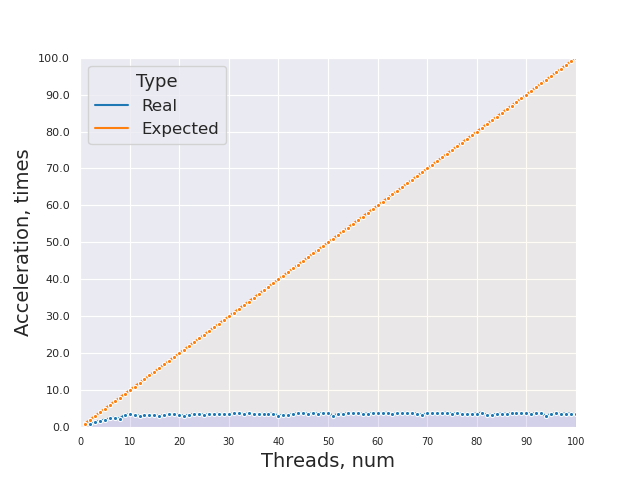
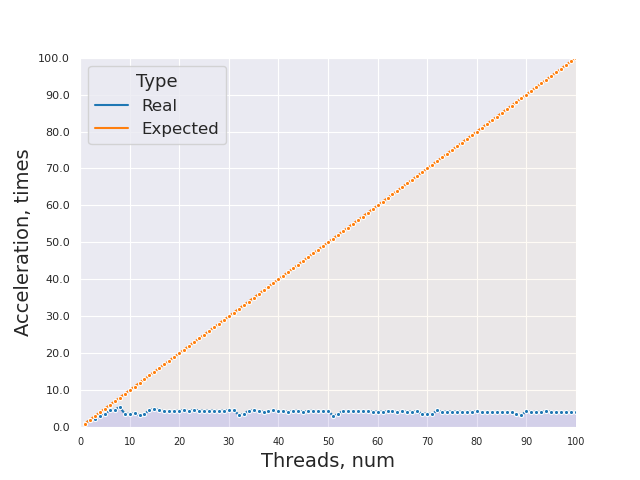
improved time measurements

Changed region(s): [[0.125, 0.8438, 0.9062, 0.9062]]

diff --git a/lab1/graphs/timing.py b/lab1/graphs/timing.py
@@ -1,6 +1,266 @@
 num_el = 10_000_000
 t_succ = 0.022116
+
 ts = [
+    (1, 0.0216019),
+    (2, 0.0113731),
+    (3, 0.00950468),
+    (4, 0.00737183),
+    (5, 0.00613744),
+    (6, 0.00484933),
+    (7, 0.00465093),
+    (8, 0.00405794),
+    (9, 0.00601082),
+    (10, 0.00615852),
+    (11, 0.00589929),
+    (12, 0.00678586),
+    (13, 0.00628134),
+    (14, 0.00471987),
+    (15, 0.00453389),
+    (16, 0.00472194),
+    (17, 0.00516676),
+    (18, 0.00504448),
+    (19, 0.00510884),
+    (20, 0.00491813),
+    (21, 0.00483046),
+    (22, 0.00506489),
+    (23, 0.00468136),
+    (24, 0.00490603),
+    (25, 0.00496954),
+    (26, 0.00495245),
+    (27, 0.00492265),
+    (28, 0.00507954),
+    (29, 0.00489939),
+    (30, 0.00484252),
+    (31, 0.00477003),
+    (32, 0.00663273),
+    (33, 0.00631892),
+    (34, 0.00491627),
+    (35, 0.00487201),
+    (36, 0.00512579),
+    (37, 0.00524893),
+    (38, 0.00513373),
+    (39, 0.00487917),
+    (40, 0.00507786),
+    (41, 0.00503302),
+    (42, 0.00535296),
+    (43, 0.00506297),
+    (44, 0.00494115),
+    (45, 0.00527018),
+    (46, 0.00504741),
+    (47, 0.00498152),
+    (48, 0.00509993),
+    (49, 0.00514352),
+    (50, 0.00499574),
+    (51, 0.00710379),
+    (52, 0.00630193),
+    (53, 0.00497754),
+    (54, 0.005101),
+    (55, 0.00517012),
+    (56, 0.00510324),
+    (57, 0.00516751),
+    (58, 0.00515184),
+    (59, 0.00521494),
+    (60, 0.00522348),
+    (61, 0.00527073),
+    (62, 0.00514643),
+    (63, 0.00517636),
+    (64, 0.00539374),
+    (65, 0.00516881),
+    (66, 0.00530795),
+    (67, 0.00521792),
+    (68, 0.00518435),
+    (69, 0.00604722),
+    (70, 0.00598274),
+    (71, 0.0062495),
+    (72, 0.00489182),
+    (73, 0.00535231),
+    (74, 0.00523002),
+    (75, 0.00521689),
+    (76, 0.00528495),
+    (77, 0.00527649),
+    (78, 0.00542108),
+    (79, 0.00525997),
+    (80, 0.00520267),
+    (81, 0.00551262),
+    (82, 0.00541883),
+    (83, 0.00555296),
+    (84, 0.00533343),
+    (85, 0.00550062),
+    (86, 0.00535672),
+    (87, 0.00546529),
+    (88, 0.00632593),
+    (89, 0.00679557),
+    (90, 0.0051117),
+    (91, 0.00537962),
+    (92, 0.00530047),
+    (93, 0.00536654),
+    (94, 0.00514788),
+    (95, 0.00531168),
+    (96, 0.00541418),
+    (97, 0.00540296),
+    (98, 0.00537077),
+    (99, 0.00533458),
+    (100, 0.00543685),
+    (101, 0.00550062),
+    (102, 0.00539803),
+    (103, 0.00556963),
+    (104, 0.00551027),
+    (105, 0.00548807),
+    (106, 0.00697583),
+    (107, 0.00637412),
+    (108, 0.00524286),
+    (109, 0.00519018),
+    (110, 0.00545328),
+    (111, 0.00532259),
+    (112, 0.00545394),
+    (113, 0.00543353),
+    (114, 0.00535282),
+    (115, 0.00562067),
+    (116, 0.0053963),
+    (117, 0.00552698),
+    (118, 0.00557168),
+    (119, 0.00546863),
+    (120, 0.00534023),
+    (121, 0.00551778),
+    (122, 0.0055764),
+    (123, 0.00549338),
+    (124, 0.00635154),
+    (125, 0.00645991),
+    (126, 0.00536083),
+    (127, 0.00521109),
+    (128, 0.00533951),
+    (129, 0.00532865),
+    (130, 0.0054439),
+    (131, 0.00550786),
+    (132, 0.00540808),
+    (133, 0.00543126),
+    (134, 0.00554895),
+    (135, 0.00554752),
+    (136, 0.00551231),
+    (137, 0.00568575),
+    (138, 0.00562784),
+    (139, 0.00560964),
+    (140, 0.00556457),
+    (141, 0.00564001),
+    (142, 0.0068315),
+    (143, 0.00635387),
+    (144, 0.00535054),
+    (145, 0.0053454),
+    (146, 0.0054266),
+    (147, 0.00531816),
+    (148, 0.00558368),
+    (149, 0.00556553),
+    (150, 0.00555546),
+    (151, 0.00549066),
+    (152, 0.00544003),
+    (153, 0.00562638),
+    (154, 0.00555612),
+    (155, 0.00562284),
+    (156, 0.0056267),
+    (157, 0.00557938),
+    (158, 0.00560702),
+    (159, 0.00643559),
+    (160, 0.00612392),
+    (161, 0.00643862),
+    (162, 0.00534716),
+    (163, 0.0054977),
+    (164, 0.0055624),
+    (165, 0.00554183),
+    (166, 0.00555756),
+    (167, 0.00564135),
+    (168, 0.00542653),
+    (169, 0.00557073),
+    (170, 0.00569008),
+    (171, 0.00571126),
+    (172, 0.0056363),
+    (173, 0.00575723),
+    (174, 0.00560712),
+    (175, 0.00569279),
+    (176, 0.00571088),
+    (177, 0.00703792),
+    (178, 0.00644404),
+    (179, 0.00531148),
+    (180, 0.0054776),
+    (181, 0.00541463),
+    (182, 0.00549514),
+    (183, 0.00559713),
+    (184, 0.00563214),
+    (185, 0.00566119),
+    (186, 0.0056102),
+    (187, 0.00561724),
+    (188, 0.00560468),
+    (189, 0.0056873),
+    (190, 0.00578429),
+    (191, 0.00576975),
+    (192, 0.00575319),
+    (193, 0.0057048),
+    (194, 0.00661886),
+    (195, 0.00655189),
+    (196, 0.00614448),
+    (197, 0.00543754),
+    (198, 0.00558763),
+    (199, 0.00562503),
+    (200, 0.00550927),
+    (201, 0.00565557),
+    (202, 0.00568022),
+    (203, 0.00569302),
+    (204, 0.00578383),
+    (205, 0.00570984),
+    (206, 0.00571095),
+    (207, 0.00578556),
+    (208, 0.00561723),
+    (209, 0.00580585),
+    (210, 0.00582934),
+    (211, 0.00621476),
+    (212, 0.00628248),
+    (213, 0.00645041),
+    (214, 0.00546053),
+    (215, 0.00556301),
+    (216, 0.00568068),
+    (217, 0.00567587),
+    (218, 0.00581003),
+    (219, 0.00579804),
+    (220, 0.00574206),
+    (221, 0.00588459),
+    (222, 0.00577702),
+    (223, 0.00586166),
+    (224, 0.00584722),
+    (225, 0.00579813),
+    (226, 0.00591558),
+    (227, 0.0058298),
+    (228, 0.00610538),
+    (229, 0.00730709),
+    (230, 0.00632743),
+    (231, 0.00553004),
+    (232, 0.00563395),
+    (233, 0.00580592),
+    (234, 0.00572373),
+    (235, 0.00588284),
+    (236, 0.00582602),
+    (237, 0.00590601),
+    (238, 0.0058167),
+    (239, 0.00583592),
+    (240, 0.00593256),
+    (241, 0.00596484),
+    (242, 0.00595656),
+    (243, 0.00596152),
+    (244, 0.00601204),
+    (245, 0.00683095),
+    (246, 0.00661275),
+    (247, 0.00636942),
+    (248, 0.00563283),
+    (249, 0.00585141),
+    (250, 0.00582952),
+    (251, 0.00579932),
+    (252, 0.00589943),
+    (253, 0.00591336),
+    (254, 0.00605057),
+    (255, 0.00590859),
+    (256, 0.00602227),
+]
+
+"""ts = [
     (1, 0.0214284),
     (2, 0.0252417),
     (3, 0.0155479),
@@ -258,3 +518,4 @@ ts = [
     (255, 0.00671165),
     (256, 0.00701784),
 ]
+"""
